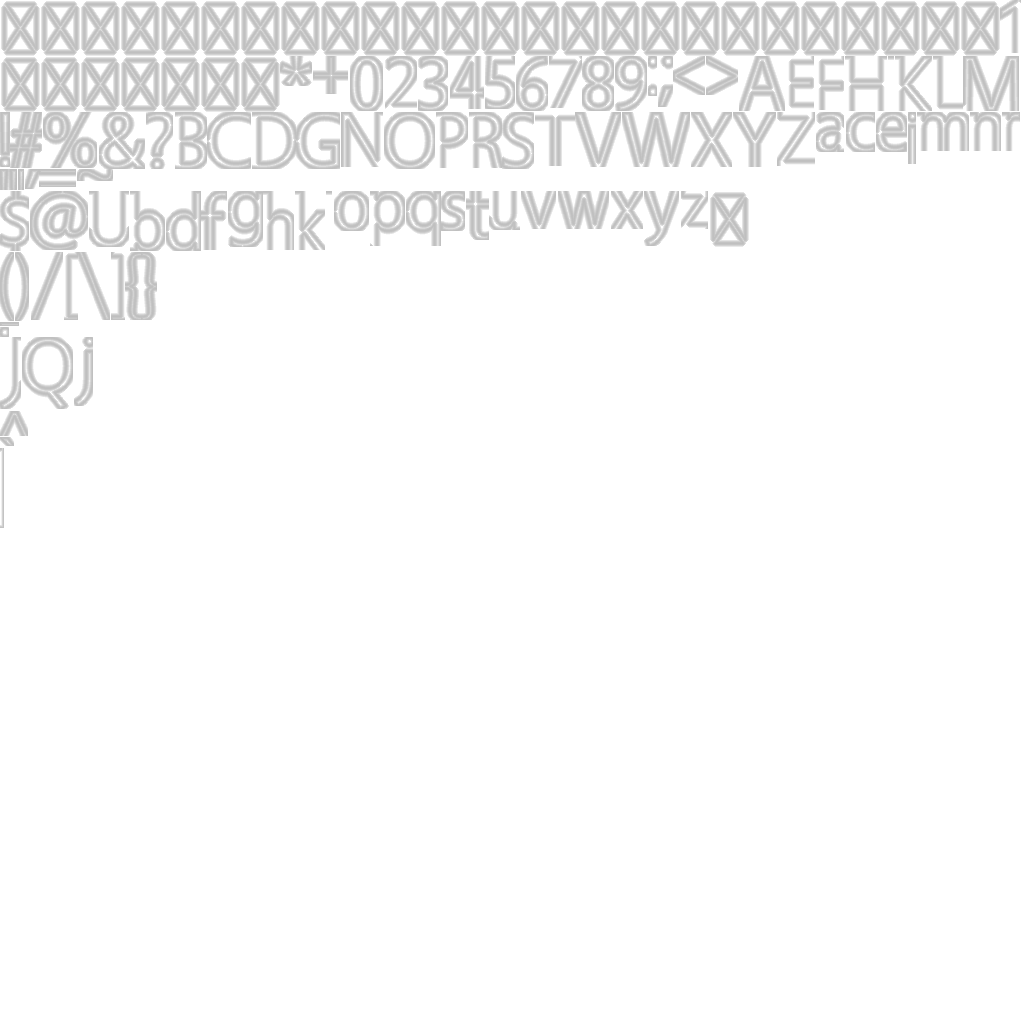
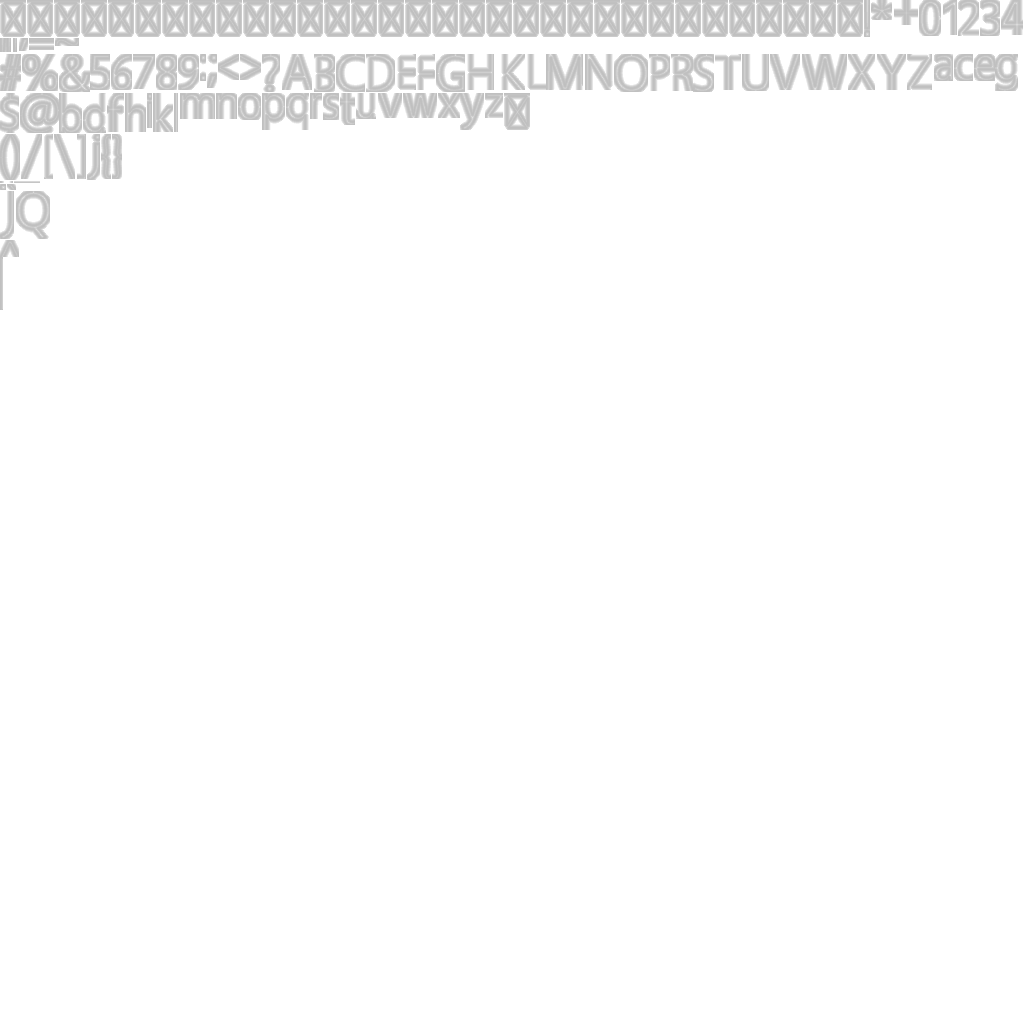
+ [episode-0026, off stream] Improved text alignment in settings dialog. + [episode-0026, off stream] Scaled down main font.

Changed region(s): [[0.0, 0.0, 1.0, 0.4375]]

diff --git a/rar-rs/src/rar/dialogs/settings_dialog.rs b/rar-rs/src/rar/dialogs/settings_dialog.rs
@@ -32,7 +32,8 @@ impl SettingsDialog {
 		}
 	}
 	fn create_info_labels(&self) -> Vec<UiElementContainer> {
-		let label_size = Vector2::new(768.0, 96.0);
+		let label_size = Vector2::new(256.0 + 64.0 + 32.0, 96.0);
+		let value_size = Vector2::new(512.0, 96.0);
 		const VERSION: &str = env!("CARGO_PKG_VERSION");
 		const BUILD_DATETIME: &str = env!("BUILD_DATETIME");
 		const GIT_COMMIT_HASH: &str = env!("GIT_COMMIT_HASH");
@@ -50,9 +51,26 @@ impl SettingsDialog {
 		];
 		let mut vl = Vec::new();
 		for l in labels {
-			vl.push(UiLabel::new(&label_size, &format!("{}{}", l.0, l.1)).containerize());
+			vl.push(UiLabel::new(&label_size, l.0).containerize());
 		}
-		vl
+		let mut vv = Vec::new();
+		for l in labels {
+			vv.push(UiLabel::new(&value_size, l.1).containerize());
+		}
+		// Note: We could have done hbox in vbox instead. Should really have a gridbox ;)
+		[
+			UiVbox::new()
+				.with_padding(16.0)
+				.containerize()
+				.with_name("Labels")
+				.with_child_element_containers(vl),
+			UiVbox::new()
+				.with_padding(16.0)
+				.containerize()
+				.with_name("Values")
+				.with_child_element_containers(vv),
+		]
+		.into()
 	}
 	fn create_audio_buttons(&self) -> Vec<UiElementContainer> {
 		[
@@ -99,14 +117,14 @@ impl SettingsDialog {
 						UiVbox::new()
 							.with_padding(16.0)
 							.containerize()
-							.with_name("Settings hBox")
+							.with_name("Settings hBox") // :TODO: fix name
 							.with_child_element_containers(self.create_audio_buttons())
 					},
 					{
-						UiVbox::new()
+						UiHbox::new()
 							.with_padding(16.0)
 							.containerize()
-							.with_name("Settings hBox")
+							.with_name("Labels hBox")
 							.with_child_element_containers(self.create_info_labels())
 					},
 				]

diff --git a/rar-rs/TODO.md b/rar-rs/TODO.md
@@ -3,7 +3,6 @@
 
 ## In Progress
 
-- [ ] Fix text alignment in settings dialog
 
 ## TODO
 
@@ -48,6 +47,7 @@
 
 
 - [ ] Experiment with passing the parent UiElement(Containter) to all/most/some UiElement(Container?) methods
+- [ ] Create UiGridBox
 
 ## TODO - off stream
 - [ ] Push sound blocking down to `oml-audio`
@@ -56,12 +56,13 @@
 
 ## Done
 
-### Epsiode 0026 - 2.0h + 2.0h  ->  57.0h   + ??.?h     -> ??.0h
+### Epsiode 0026 - 2.0h + 2.5h??  ->  57.0h   + ??.?h     -> ??.0h
 - [x] Add mystic mountain (tiles, tilset, and map) with automapping rules
 
 - [x] Extract settings state into dialog
 - [x] Move sound & music button update into settings dialog
 - [x] Add background to settings dialog
+- [x] Fix text alignment in settings dialog
 
 ### Epsiode 0025 - 1.0h + 0.0h  ->  55.0h   + 40.0h     -> 55.0h
 - [x] Fix git messup
